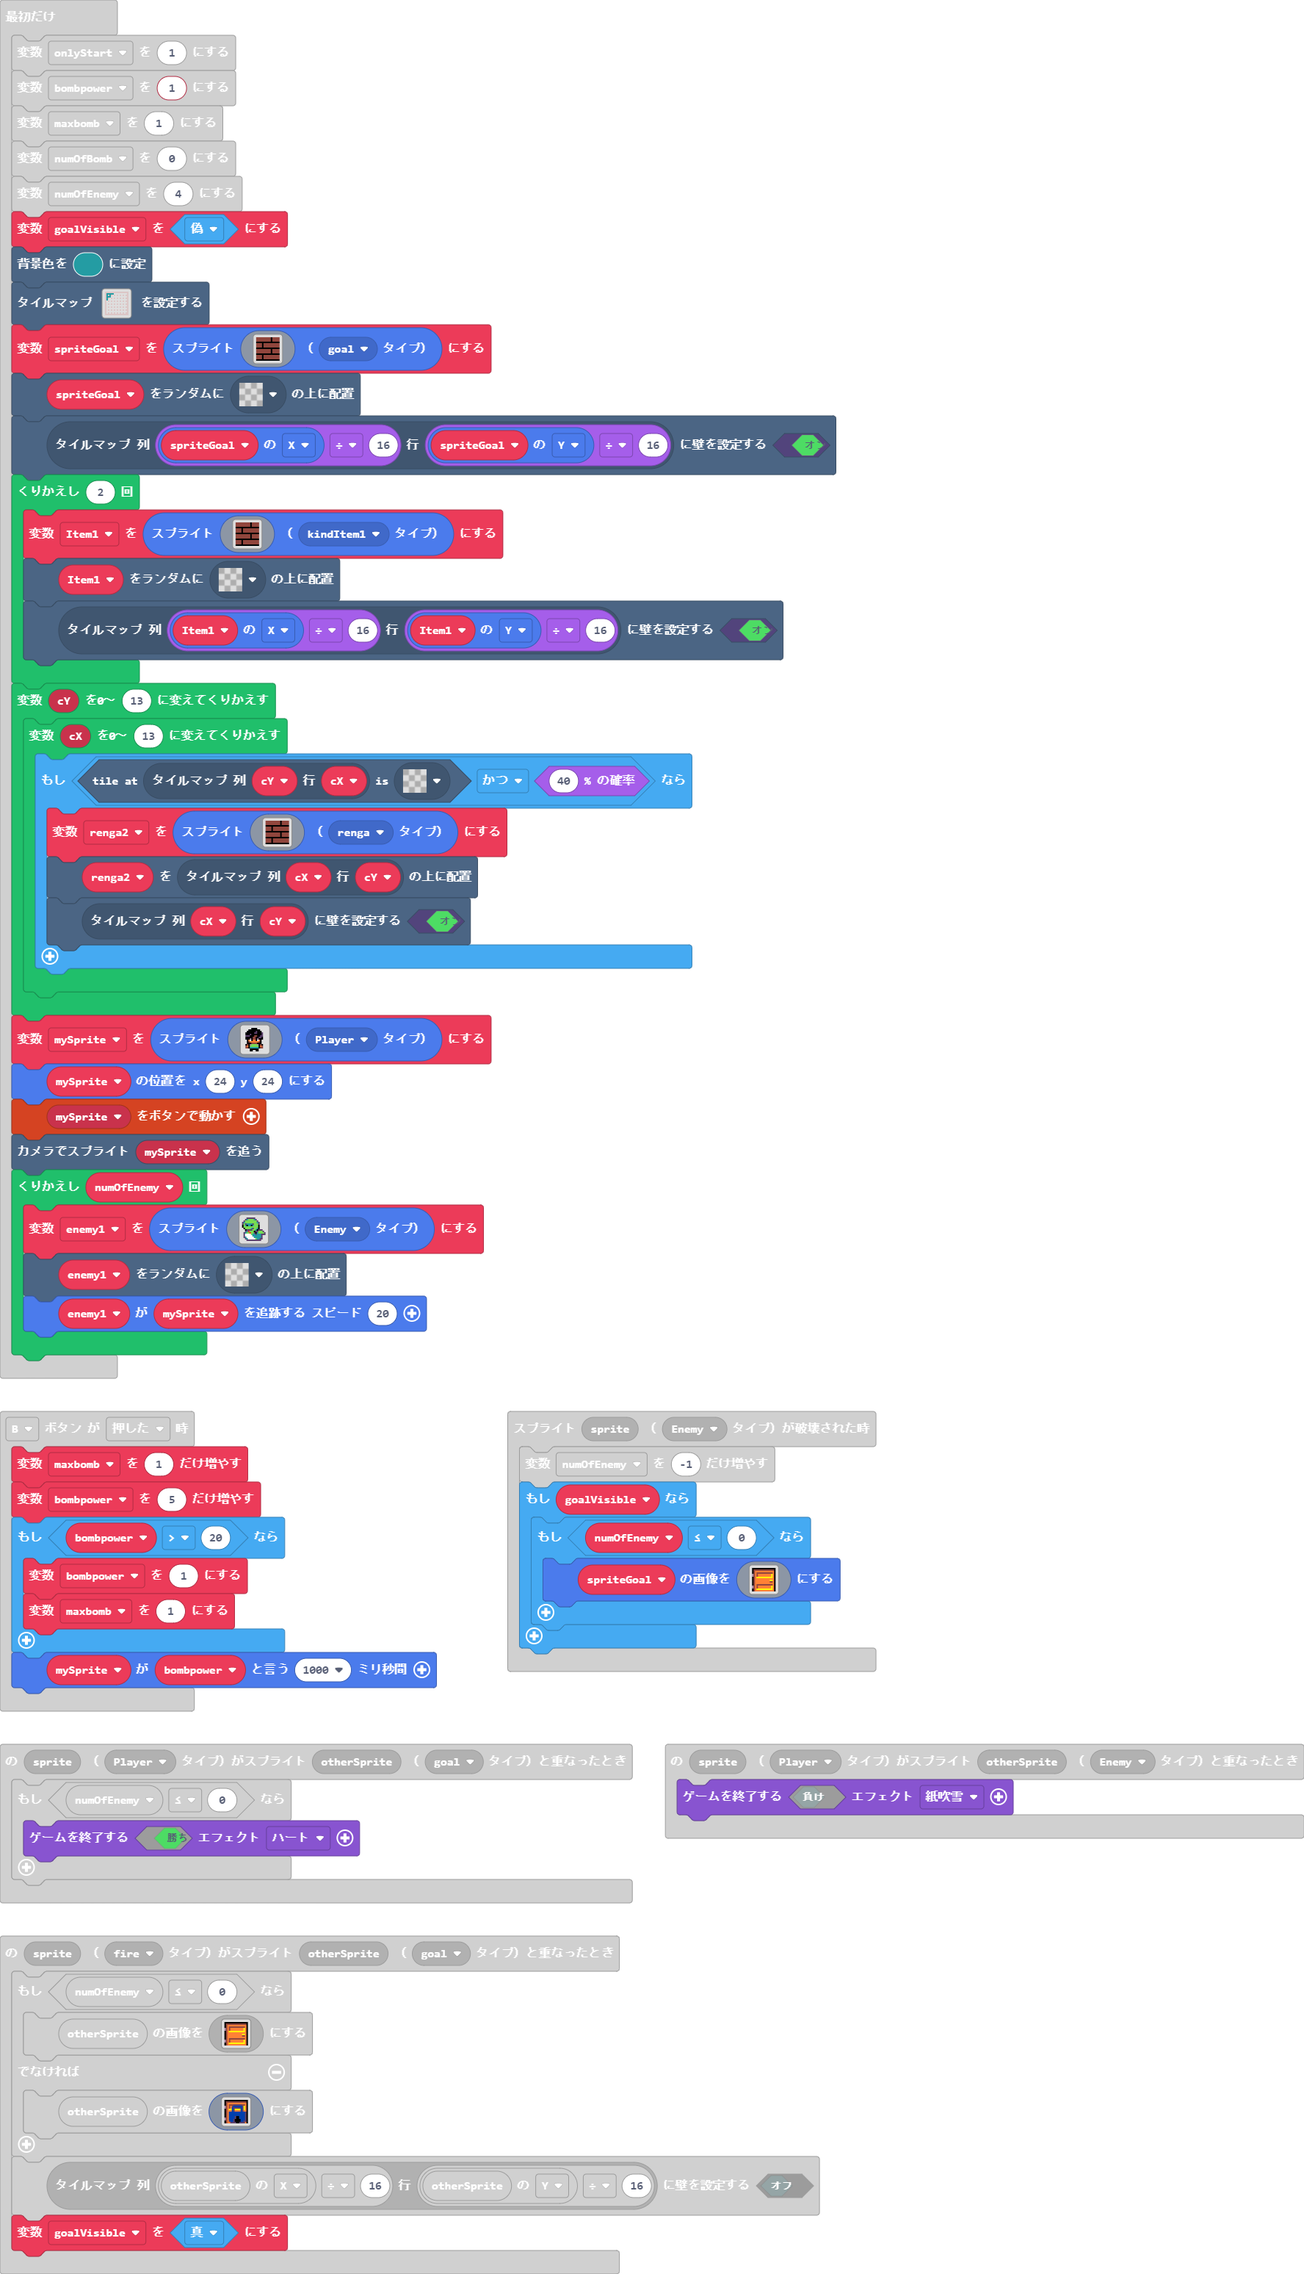
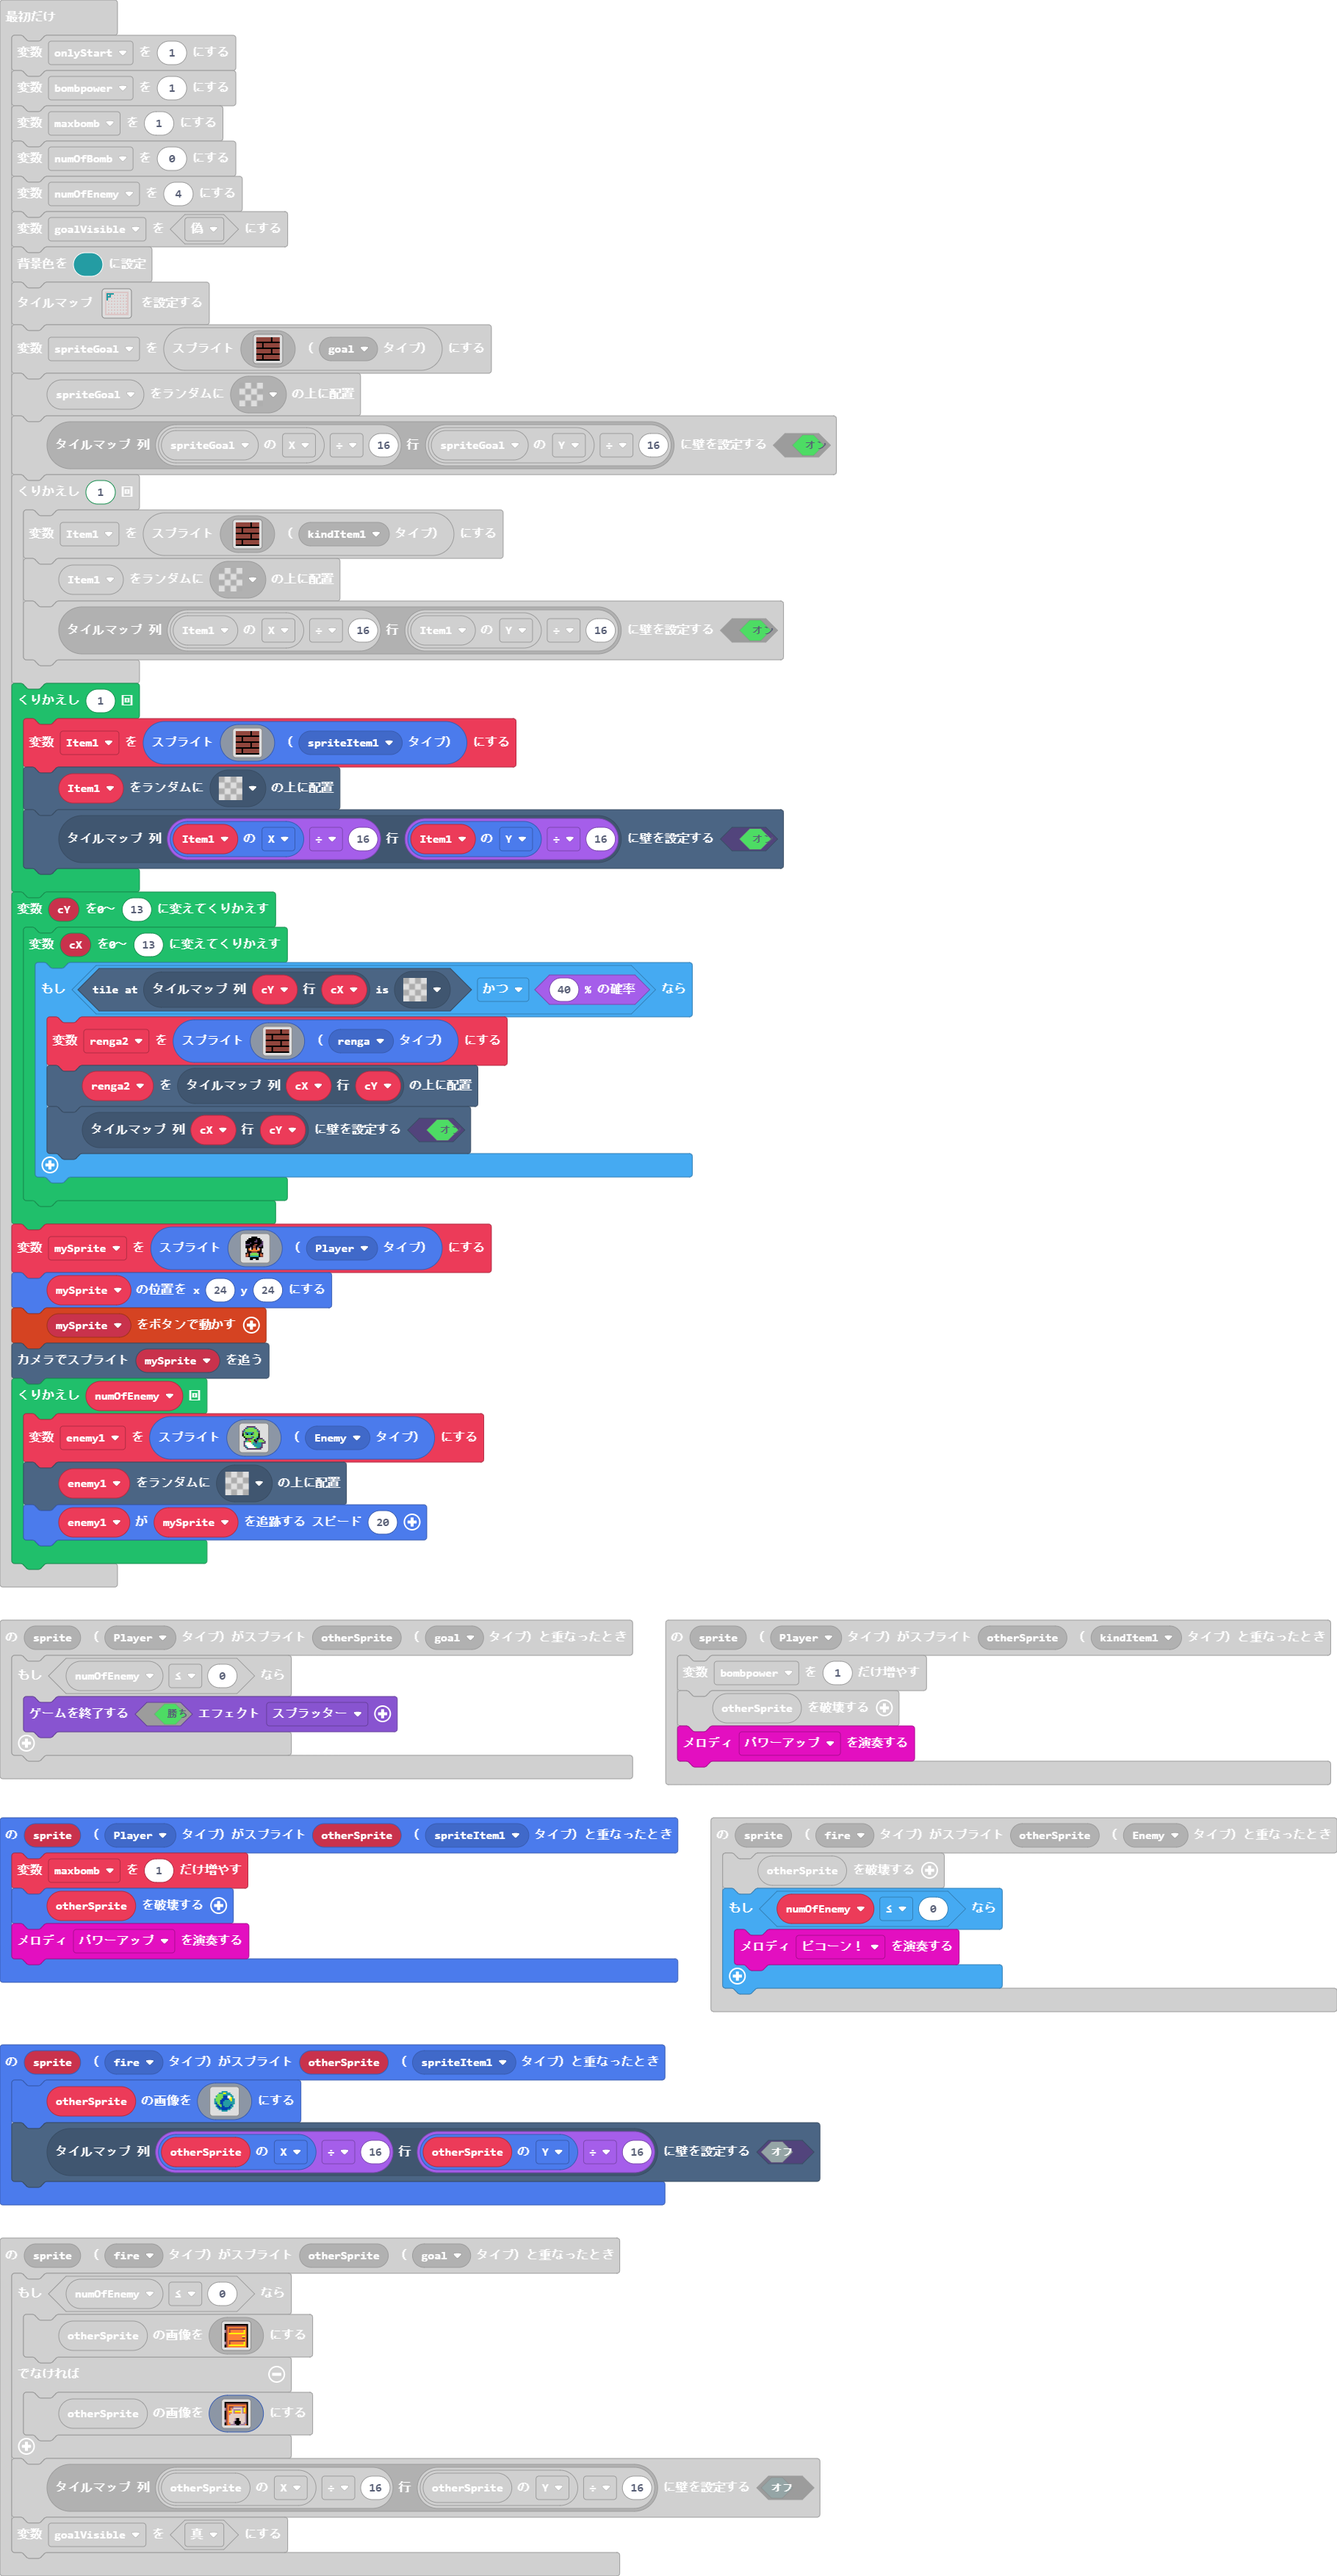
更新 main.blocks, main.ts

diff --git a/main.ts b/main.ts
@@ -31,6 +31,7 @@ controller.right.onEvent(ControllerButtonEvent.Pressed, function () {
 sprites.onOverlap(SpriteKind.Player, SpriteKind.kindItem1, function (sprite, otherSprite) {
     bombpower += 1
     otherSprite.destroy()
+    music.powerUp.play()
 })
 sprites.onOverlap(SpriteKind.fire, SpriteKind.goal, function (sprite, otherSprite) {
     if (numOfEnemy <= 0) {
@@ -57,19 +58,19 @@ sprites.onOverlap(SpriteKind.fire, SpriteKind.goal, function (sprite, otherSprit
             f f f f f f f f f f f f f f f f 
             f e e e e e e e e e e e e e e f 
             f e 4 4 4 4 4 4 4 4 4 4 4 4 4 f 
-            f e 4 e e e c c c c c c e e 4 f 
-            b e 4 e 4 c 8 8 8 8 8 8 c 5 4 f 
-            b e 4 e 4 8 c c c c c 8 c 5 4 f 
-            f e 4 5 5 8 c 5 5 5 5 8 c 5 4 f 
-            f e 4 4 4 8 c 4 4 4 4 8 c 4 4 f 
-            f e 4 8 8 8 8 8 8 8 8 8 8 8 c f 
-            f e 4 8 8 8 8 8 8 8 8 8 8 8 c f 
-            f e 4 8 8 8 8 8 8 8 8 8 8 8 c f 
-            f e 4 8 8 8 8 c f f 8 8 8 8 c f 
-            b e 4 8 8 8 8 c f f 8 8 8 8 c f 
-            b e 4 8 8 8 c f f f f 8 8 8 c f 
-            f e 4 c 8 8 c f f f f 8 8 c c f 
-            f e 4 4 c c c c f f c c c c 4 f 
+            f e 4 e e e b b b b b b e e 4 f 
+            b e 4 e 4 b d d d d d d b 5 4 f 
+            b e 4 e 4 d b b b b b d b 5 4 f 
+            f e 4 5 5 d b 5 5 5 5 d b 5 4 f 
+            f e 4 4 4 d b 4 4 4 4 d b 4 4 f 
+            f e 4 b d d d d d d d d d d b f 
+            f e 4 d d d d d d d d d d d b f 
+            f e 4 d d d d d d d d d d d b f 
+            f e 4 d d d d b f f d d d d b f 
+            b e 4 d d d d b f f d d d d b f 
+            b e 4 d d d b f f f f d d d b f 
+            f e 4 b d d b f f f f d d b b f 
+            f e 4 4 b b b b f f b b b b 4 f 
             `)
     }
     tiles.setWallAt(tiles.getTileLocation(otherSprite.x / 16, otherSprite.y / 16), false)
@@ -82,6 +83,9 @@ sprites.onCreated(SpriteKind.fire, function (sprite) {
 })
 sprites.onOverlap(SpriteKind.fire, SpriteKind.Enemy, function (sprite, otherSprite) {
     otherSprite.destroy()
+    if (numOfEnemy <= 0) {
+        music.baDing.play()
+    }
 })
 sprites.onOverlap(SpriteKind.fire, SpriteKind.renga, function (sprite, otherSprite) {
     otherSprite.destroy()
@@ -130,6 +134,11 @@ sprites.onOverlap(SpriteKind.fire, SpriteKind.kindItem1, function (sprite, other
         `)
     tiles.setWallAt(tiles.getTileLocation(otherSprite.x / 16, otherSprite.y / 16), false)
 })
+sprites.onOverlap(SpriteKind.Player, SpriteKind.spriteItem1, function (sprite, otherSprite) {
+    maxbomb += 1
+    otherSprite.destroy()
+    music.powerUp.play()
+})
 controller.left.onEvent(ControllerButtonEvent.Pressed, function () {
     mySprite.setImage(img`
         . . . . . . . . . . . . . 
@@ -150,6 +159,27 @@ controller.left.onEvent(ControllerButtonEvent.Pressed, function () {
         . . . . . . . . . . . . . 
         `)
 })
+sprites.onOverlap(SpriteKind.fire, SpriteKind.spriteItem1, function (sprite, otherSprite) {
+    otherSprite.setImage(img`
+        . . . . . . . . . . . . . . . . 
+        . . . . . . 6 6 6 6 . . . . . . 
+        . . . . 6 6 6 5 5 6 6 6 . . . . 
+        . . . 7 7 7 7 6 6 6 6 6 6 . . . 
+        . . 6 7 7 7 7 8 8 8 1 1 6 6 . . 
+        . . 7 7 7 7 7 8 8 8 1 1 5 6 . . 
+        . 6 7 7 7 7 8 8 8 8 8 5 5 6 6 . 
+        . 6 7 7 7 8 8 8 6 6 6 6 5 6 6 . 
+        . 6 6 7 7 8 8 6 6 6 6 6 6 6 6 . 
+        . 6 8 7 7 8 8 6 6 6 6 6 6 6 6 . 
+        . . 6 8 7 7 8 6 6 6 6 6 8 6 . . 
+        . . 6 8 8 7 8 8 6 6 6 8 6 6 . . 
+        . . . 6 8 8 8 8 8 8 8 8 6 . . . 
+        . . . . 6 6 8 8 8 8 6 6 . . . . 
+        . . . . . . 6 6 6 6 . . . . . . 
+        . . . . . . . . . . . . . . . . 
+        `)
+    tiles.setWallAt(tiles.getTileLocation(otherSprite.x / 16, otherSprite.y / 16), false)
+})
 controller.B.onEvent(ControllerButtonEvent.Pressed, function () {
     maxbomb += 1
     bombpower += 5
@@ -166,7 +196,7 @@ sprites.onOverlap(SpriteKind.Enemy, SpriteKind.renga, function (sprite, otherSpr
 })
 sprites.onOverlap(SpriteKind.Player, SpriteKind.goal, function (sprite, otherSprite) {
     if (numOfEnemy <= 0) {
-        game.over(true, effects.hearts)
+        game.over(true, effects.splatter)
     }
 })
 controller.up.onEvent(ControllerButtonEvent.Pressed, function () {
@@ -388,7 +418,7 @@ spriteGoal = sprites.create(img`
     `, SpriteKind.goal)
 tiles.placeOnRandomTile(spriteGoal, assets.tile`transparency16`)
 tiles.setWallAt(tiles.getTileLocation(spriteGoal.x / 16, spriteGoal.y / 16), true)
-for (let index = 0; index < 2; index++) {
+for (let index = 0; index < 1; index++) {
     Item1 = sprites.create(img`
         e e e e e e e e e e f e e e e e 
         e e e e e e e e e e f e e e e e 
@@ -407,6 +437,28 @@ for (let index = 0; index < 2; index++) {
         e e e e f e e e e e e e e e e e 
         f f f f f f f f f f f f f f f f 
         `, SpriteKind.kindItem1)
+    tiles.placeOnRandomTile(Item1, assets.tile`transparency16`)
+    tiles.setWallAt(tiles.getTileLocation(Item1.x / 16, Item1.y / 16), true)
+}
+for (let index = 0; index < 1; index++) {
+    Item1 = sprites.create(img`
+        e e e e e e e e e e f e e e e e 
+        e e e e e e e e e e f e e e e e 
+        e e e e e e e e e e f e e e e e 
+        f f f f f f f f f f f f f f f f 
+        e e e e f e e e e e e e e e e e 
+        e e e e f e e e e e e e e e e e 
+        e e e e f e e e e e e e e e e e 
+        f f f f f f f f f f f f f f f f 
+        e e e e e e e e e e f e e e e e 
+        e e e e e e e e e e f e e e e e 
+        e e e e e e e e e e f e e e e e 
+        f f f f f f f f f f f f f f f f 
+        e e e e f e e e e e e e e e e e 
+        e e e e f e e e e e e e e e e e 
+        e e e e f e e e e e e e e e e e 
+        f f f f f f f f f f f f f f f f 
+        `, SpriteKind.spriteItem1)
     tiles.placeOnRandomTile(Item1, assets.tile`transparency16`)
     tiles.setWallAt(tiles.getTileLocation(Item1.x / 16, Item1.y / 16), true)
 }
